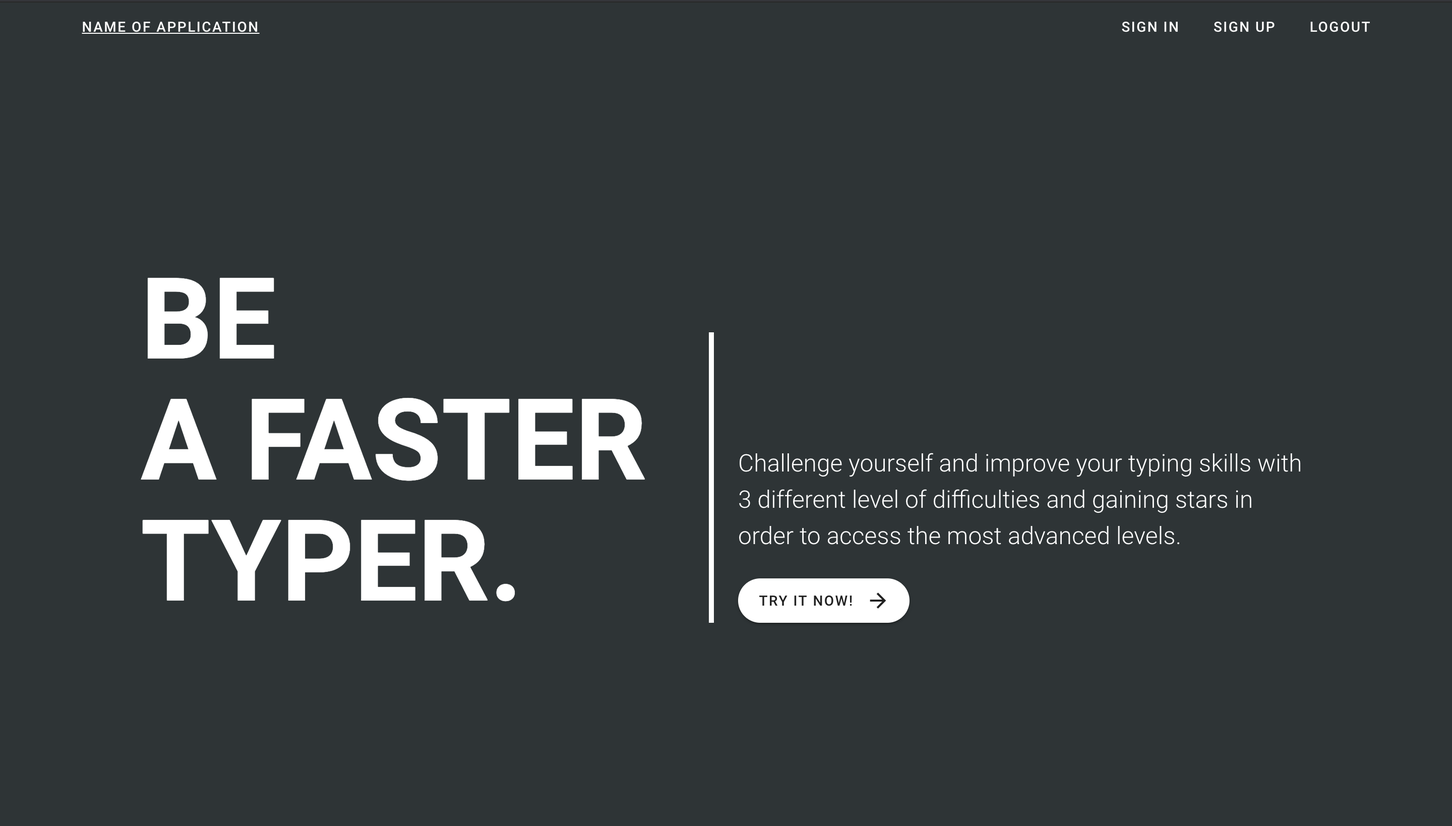
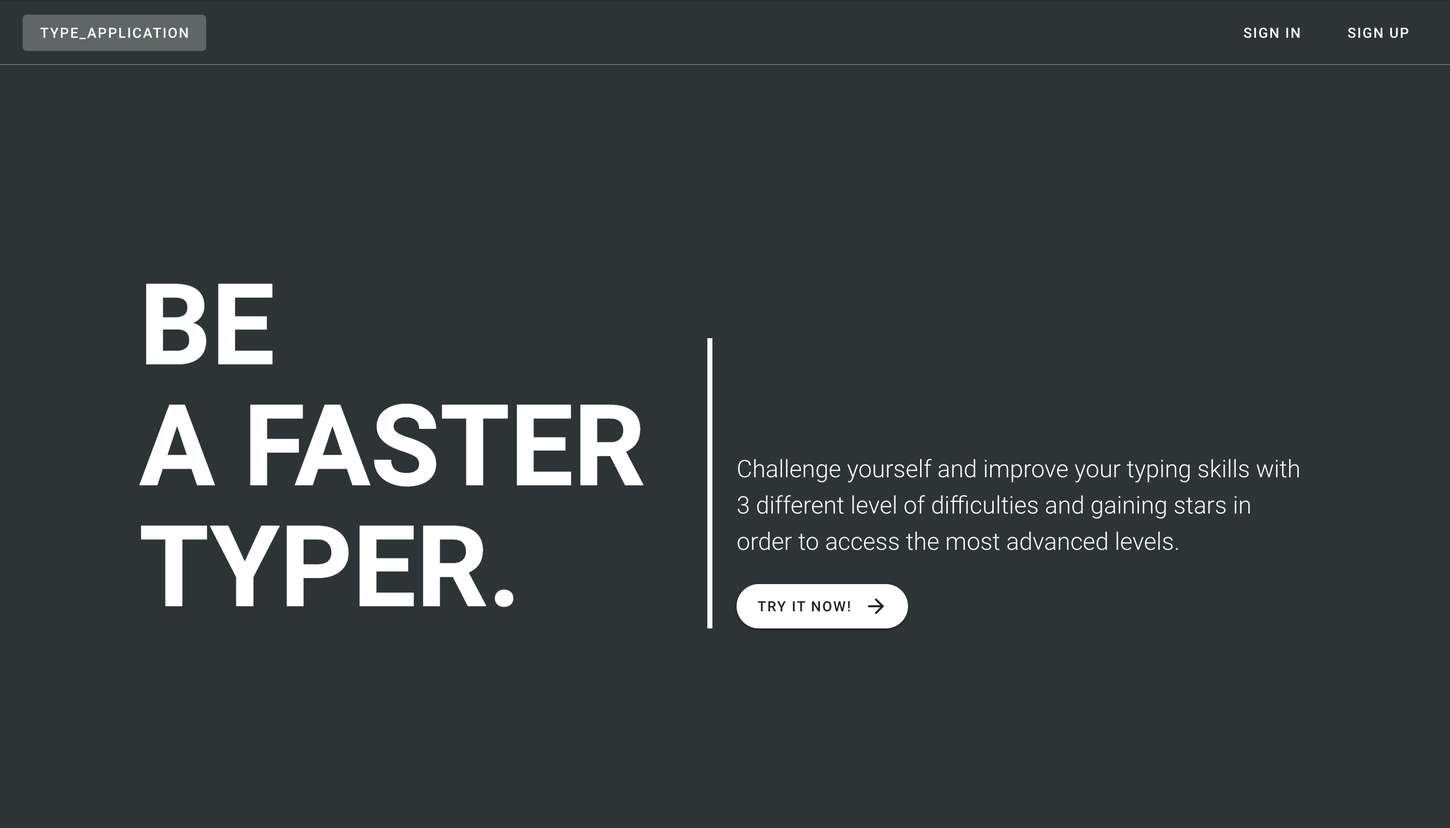
Added PDF file + general style changes

diff --git a/style/css/main.css b/style/css/main.css
@@ -1,1 +1,1 @@
-@import url("https://fonts.googleapis.com/css2?family=Raleway:wght@900&display=swap");@import url("https://fonts.googleapis.com/css2?family=Raleway&display=swap");@import url("https://fonts.googleapis.com/css2?family=Inconsolata:wght@400&display=swap");@import url("https://fonts.googleapis.com/css2?family=Raleway:wght@900&display=swap");@import url("https://fonts.googleapis.com/css2?family=Raleway&display=swap");@import url("https://fonts.googleapis.com/css2?family=Inconsolata:wght@400&display=swap");*{box-sizing:border-box;margin:0;padding:0}html{scroll-behavior:smooth}body{position:relative;font-family:"Raleway",sans-serif;font-size:1em;user-select:none;overflow-x:hidden}img{max-width:100%;height:auto;display:block}ul{list-style:none}a{text-decoration:none;color:black}section{min-height:100vh;display:flex;justify-content:center;align-items:center;flex-direction:""}.menu__hide{top:-80px}.menu__show{top:0}.ContactButtonStyle,.about__container .about__textContainer .contacts .buttonContact,#contactSection .contact__container .contact__links .contact__buttons .contact__button__email{display:inline-block;padding:20px;cursor:pointer;background-color:black;text-transform:uppercase;letter-spacing:2px;font-size:0.8em;position:relative;border-radius:3px;transition:all 0.3s cubic-bezier(0.645, 0.045, 0.355, 1);border:2px solid transparent}.ContactButtonStyle:hover,.about__container .about__textContainer .contacts .buttonContact:hover,#contactSection .contact__container .contact__links .contact__buttons .contact__button__email:hover{background-color:white;border:2px solid black}.ContactButtonStyle:hover a,.about__container .about__textContainer .contacts .buttonContact:hover a,#contactSection .contact__container .contact__links .contact__buttons .contact__button__email:hover a{color:black}.ContactButtonStyle a,.about__container .about__textContainer .contacts .buttonContact a,#contactSection .contact__container .contact__links .contact__buttons .contact__button__email a{color:#ffffff}.ContactButtonStyle a i,.about__container .about__textContainer .contacts .buttonContact a i,#contactSection .contact__container .contact__links .contact__buttons .contact__button__email a i{margin-right:5px}.socialContactsClass ul,.about__container .about__textContainer .contacts .socialContact ul,#contactSection .contact__container .contact__links .contact__socials ul{display:flex}.socialContactsClass ul li,.about__container .about__textContainer .contacts .socialContact ul li,#contactSection .contact__container .contact__links .contact__socials ul li{padding:12px}.socialContactsClass ul li i,.about__container .about__textContainer .contacts .socialContact ul li i,#contactSection .contact__container .contact__links .contact__socials ul li i{cursor:pointer;transition:all 0.5s cubic-bezier(0.165, 0.84, 0.44, 1);font-size:1.2em}.socialContactsClass ul li i:hover,.about__container .about__textContainer .contacts .socialContact ul li i:hover,#contactSection .contact__container .contact__links .contact__socials ul li i:hover{transform:scale(1.4)}nav{background-color:white;position:fixed;left:0;width:100%;height:75px;z-index:1000;padding:0 2rem 0 2rem;font-family:"Inconsolata",monospace;font-size:1.2em;--font-semi: 600;transition:all 0.4s cubic-bezier(0.455, 0.03, 0.515, 0.955);box-shadow:0 4px 2px -2px gray;display:flex;justify-content:space-between;align-items:center;flex-direction:"";-webkit-tap-highlight-color:transparent}nav .menu__logo{max-width:60px;cursor:pointer;z-index:9999;transition:all 10s}nav .menu__links .menu__links__laptop ul{display:flex;justify-content:"";align-items:center;flex-direction:""}nav .menu__links .menu__links__laptop ul li{position:relative;margin:0 0 0 3rem;letter-spacing:1px}nav .menu__links .menu__links__laptop ul li::before{content:'';position:absolute;bottom:-40%;left:0;height:1px;width:0;background-color:black;transition:all 0.2s cubic-bezier(0.455, 0.03, 0.515, 0.955)}nav .menu__links .menu__links__laptop ul li:hover:not(:last-child){font-weight:900}nav .menu__links .menu__links__laptop ul li:hover:not(:last-child)::before{width:100%}nav .menu__links .menu__links__laptop ul li:last-child{line-height:normal;border-radius:5px;border:1px solid black;padding:10px}nav .menu__links .menu__links__mobile{position:relative;cursor:pointer;transition:all 0.5s cubic-bezier(0.455, 0.03, 0.515, 0.955);z-index:9999;height:50px;width:50px;display:flex;justify-content:center;align-items:center;flex-direction:""}nav .menu__links .menu__links__mobile .menu__button__hamburger{width:calc(100% - 30px);height:2px;background-color:black;border-radius:5px;transition:all .3s ease-in-out;position:relative}nav .menu__links .menu__links__mobile .menu__button__hamburger::before{content:'';position:absolute;height:2px;width:calc(100% + 10px);background-color:inherit;transform:translateY(-10px);transition:all 0.3s cubic-bezier(0.455, 0.03, 0.515, 0.955)}nav .menu__links .menu__links__mobile .menu__button__hamburger::after{content:'';position:absolute;height:2px;width:calc(100% + 10px);background-color:inherit;transform:translateY(10px);transition:all 0.3s cubic-bezier(0.455, 0.03, 0.515, 0.955)}nav .menu__links .menu__links__mobile.openMobile .menu__button__hamburger{background:transparent}nav .menu__links .menu__links__mobile.openMobile .menu__button__hamburger::before{background-color:white;transform:rotate(45deg)}nav .menu__links .menu__links__mobile.openMobile .menu__button__hamburger::after{background-color:white;transform:rotate(-45deg)}nav .menu__mobile__fullPage{position:fixed;top:-100%;left:0;background-color:black;display:flex;justify-content:center;align-items:center;flex-direction:"";text-align:center;height:100%;width:100%;transition:all 0.5s cubic-bezier(0.645, 0.045, 0.355, 1)}nav .menu__mobile__fullPage ul li{line-height:80px;font-size:1.1em}nav .menu__mobile__fullPage ul li a{color:white;letter-spacing:1px}nav .menu__mobile__fullPage ul .button__resume{line-height:normal;border-radius:5px;padding:15px;margin-top:5rem;border:1px solid white;position:relative;display:flex;justify-content:center;align-items:flex-start;flex-direction:""}nav .menu__mobile__fullPage ul .button__resume::before{content:'';position:absolute;top:-4rem;height:1px;width:40%;background-color:white}nav .menu__mobile__fullPage.openMobile{top:0}.lateralTextStyle,.about__container .side__vertical__text,.projects__container .project .side__vertical__text{position:relative;left:-2%;writing-mode:vertical-rl;transform:rotate(-180deg);font-size:0.7em;text-transform:uppercase;font-weight:lighter;letter-spacing:10px;height:310px;display:flex;justify-content:flex-start;align-items:center}.lateralTextStyle::before,.about__container .side__vertical__text::before,.projects__container .project .side__vertical__text::before{content:'';position:absolute;bottom:0;height:47%;width:1px;background-color:black}footer{text-align:center;background-color:black;color:white;position:absolute;bottom:0;left:0;width:100%;height:80px;display:flex;align-items:center;justify-content:center}footer .footer__text{line-height:30px;font-family:"Inconsolata",monospace}.intro__page{position:fixed;top:0;left:0;height:100%;width:100%;background-color:black;color:white;z-index:9999;display:flex;justify-content:center;align-items:center;flex-direction:column;transform-origin:top}.intro__page img{max-width:130px;opacity:0}.intro__page h3{opacity:0;font-family:"Inconsolata",monospace;margin-top:1rem;letter-spacing:5px;text-transform:uppercase;font-size:1em;position:relative;display:flex;justify-content:center;align-items:"";flex-direction:""}.about__container{margin-top:5%;max-width:1000px;display:flex;justify-content:center;align-items:center;flex-direction:row;padding:0 3rem 0 3rem;margin-left:auto;margin-right:auto}.about__container .about__textContainer{z-index:100;font-size:1.2em;padding-left:2rem;padding-right:2rem}.about__container .about__textContainer .description{margin-bottom:3rem}.about__container .about__textContainer .description h3{font-family:"Inconsolata",monospace;font-weight:normal;letter-spacing:1px;margin-bottom:15px}.about__container .about__textContainer .description h1{text-transform:uppercase;font-size:2em;letter-spacing:1px;margin-bottom:-2%;margin-bottom:10px}.about__container .about__textContainer .description p{line-height:30px}.about__container .about__textContainer .contacts .socialContact{margin-top:1.5rem}.about__container .about__imgContainer{max-width:380px;position:relative}.about__container .about__imgContainer::before{content:'';position:absolute;right:-10%;bottom:10%;background-color:#f1f2f6cc;width:150%;height:80%;z-index:-1}.about__container .about__imgContainer img{border:10px solid white;filter:grayscale(10%)}.projects__container{margin-top:10%;max-width:1000px;display:flex;justify-content:center;align-items:center;flex-direction:column;padding:0 3rem 0 3rem;margin-left:auto;margin-right:auto;overflow:hidden}.projects__container .projects__intro{width:100%;margin-bottom:9rem;font-family:"Inconsolata",monospace;position:relative;display:flex;justify-content:"";align-items:center;flex-direction:""}.projects__container .projects__intro::before{content:'';position:absolute;right:0;height:1px;width:600px;background-color:black}.projects__container .project{display:flex;justify-content:flex-end;align-items:center;flex-direction:"";position:relative;margin:0 2rem 13rem 2rem;width:100%}.projects__container .project::before{content:'';height:120%;width:65%;position:absolute;border:1px solid #bebec2;color:#f1f2f6cc;z-index:-1;margin-right:-1rem}.projects__container .project .project__image{max-width:500px;filter:drop-shadow(4px 4px 4px #222)}.projects__container .project .project__image img{filter:grayscale(100%);transition:all .2s ease-in-out;cursor:pointer}.projects__container .project .project__image img:hover{filter:none}.projects__container .project .project__text{text-align:end;margin:0 15px 0px 40px;min-width:300px}.projects__container .project .project__text .project__title h4{font-family:"Inconsolata",monospace;margin-bottom:5px;letter-spacing:2px}.projects__container .project .project__text .project__title h1{margin-bottom:1rem}.projects__container .project .project__text .project__description{line-height:25px}.projects__container .project .project__text .project__technologies{position:relative;margin-top:2rem}.projects__container .project .project__text .project__technologies ul{float:right;padding-bottom:1rem;font-family:"Inconsolata",monospace}.projects__container .project .project__text .project__technologies ul li{padding-left:20px;float:right}.projects__container .project .project__text .project__links{margin-right:5px}.projects__container .project .project__text .project__links a{font-size:1.1em;padding:0 0 0 20px}#contactSection{overflow:hidden}#contactSection .contact__container{margin-top:0;max-width:1000px;display:flex;justify-content:center;align-items:center;flex-direction:column;padding:0 3rem 0 3rem;margin-left:auto;margin-right:auto;text-align:center;font-size:1.2em;position:relative}#contactSection .contact__container::before{content:'con- \A -tact \A me';white-space:pre;position:absolute;font-size:15em;font-weight:900;text-transform:uppercase;line-height:190px;color:#f1f2f6cc;z-index:-1;letter-spacing:-15px}#contactSection .contact__container .contact__text{margin-bottom:2rem}#contactSection .contact__container .contact__text h1{font-size:2.2em;font-weight:bold;font-family:"Inconsolata",monospace}#contactSection .contact__container .contact__text p{line-height:30px;margin-top:1.2rem}#contactSection .contact__container .contact__links .contact__buttons{display:flex;justify-content:"";align-items:"";flex-direction:""}#contactSection .contact__container .contact__links .contact__socials{margin-top:1.5rem;display:flex;justify-content:center;align-items:"";flex-direction:"";display:none}@media screen and (max-width: 768px){#aboutSection .about__container{margin-top:100px;max-width:450px;display:flex;justify-content:"";align-items:"";flex-direction:column-reverse;padding:0 2rem 5rem 2rem;margin-left:auto;margin-right:auto}#aboutSection .about__container .side__vertical__text{display:none}#aboutSection .about__container .about__textContainer{padding:1rem 0 0 .7rem;font-size:1em}#aboutSection .about__container .about__textContainer .contacts .socialContact{display:none}#projectSection .projects__container{margin-top:100px;max-width:450px;display:flex;justify-content:"";align-items:"";flex-direction:column;padding:0 2rem 5rem 2rem;margin-left:auto;margin-right:auto}#projectSection .projects__container .projects__intro{margin-bottom:5rem}#projectSection .projects__container .projects__intro:before{content:none}#projectSection .projects__container .project{flex-direction:column;margin:0 2rem 8rem 2rem}#projectSection .projects__container .project::before{display:none}#projectSection .projects__container .project .side__vertical__text{writing-mode:initial;transform:rotate(0deg);height:auto;display:flex;justify-content:flex-end;align-items:center;width:inherit;margin-bottom:3rem}#projectSection .projects__container .project .side__vertical__text::before{content:'';position:absolute;top:50%;left:0;transform:translate(5%, -50%);height:1px;width:calc(100% - 190px);background-color:black}#projectSection .projects__container .project .project__text{margin:0;margin-top:2rem}#contactSection{margin-top:-13rem}#contactSection .contact__container{font-size:1em;margin-top:100px;max-width:450px;display:flex;justify-content:"";align-items:"";flex-direction:"";padding:0 2rem 5rem 2rem;margin-left:auto;margin-right:auto}#contactSection .contact__container .contact__text h1{font-size:1.9em}}@media screen and (max-width: 450px){.about__container{margin-top:0;max-width:320px;display:flex;justify-content:"";align-items:"";flex-direction:"";padding:0 0 0 0;margin-left:auto;margin-right:auto}.projects__container{margin-top:0;max-width:320px;display:flex;justify-content:"";align-items:"";flex-direction:"";padding:0 0 0 0;margin-left:auto;margin-right:auto}.projects__container .project .project__text{min-width:0}.projects__container .project .project__text .project__technologies ul{flex-direction:column}.projects__container .project .project__text .project__technologies ul li{line-height:25px}#contactSection .contact__container::before{content:none}#contactSection .contact__container .contact__links .contact__socials{display:flex}}
+@import url("https://fonts.googleapis.com/css2?family=Raleway:wght@900&display=swap");@import url("https://fonts.googleapis.com/css2?family=Raleway&display=swap");@import url("https://fonts.googleapis.com/css2?family=Inconsolata:wght@400&display=swap");*{box-sizing:border-box;margin:0;padding:0}html{scroll-behavior:smooth}body{position:relative;font-family:"Raleway",sans-serif;font-size:1em;user-select:none;overflow-x:hidden}img{max-width:100%;height:auto;display:block}ul{list-style:none}a{text-decoration:none;color:black}section{min-height:100vh;display:flex;justify-content:center;align-items:center;flex-direction:""}.menu__hide{top:-80px}.menu__show{top:0}nav{background-color:white;position:fixed;left:0;width:100%;height:75px;z-index:1000;padding:0 2rem 0 2rem;font-family:"Inconsolata",monospace;font-size:1.2em;--font-semi: 600;transition:all 0.4s cubic-bezier(0.455, 0.03, 0.515, 0.955);box-shadow:0 4px 2px -2px gray;display:flex;justify-content:space-between;align-items:center;flex-direction:"";-webkit-tap-highlight-color:transparent}nav .menu__logo{max-width:60px;cursor:pointer;z-index:9999;transition:all 10s}nav .menu__links .menu__links__laptop ul{display:flex;justify-content:"";align-items:center;flex-direction:""}nav .menu__links .menu__links__laptop ul li{position:relative;margin:0 0 0 3rem;letter-spacing:1px}nav .menu__links .menu__links__laptop ul li::before{content:'';position:absolute;bottom:-40%;left:0;height:1px;width:0;background-color:black;transition:all 0.2s cubic-bezier(0.455, 0.03, 0.515, 0.955)}nav .menu__links .menu__links__laptop ul li:hover:not(:last-child){font-weight:900}nav .menu__links .menu__links__laptop ul li:hover:not(:last-child)::before{width:100%}nav .menu__links .menu__links__laptop ul li:last-child{line-height:normal;border-radius:5px;border:1px solid black;padding:10px}nav .menu__links .menu__links__mobile{position:relative;cursor:pointer;transition:all 0.5s cubic-bezier(0.455, 0.03, 0.515, 0.955);z-index:9999;height:50px;width:50px;display:flex;justify-content:center;align-items:center;flex-direction:""}nav .menu__links .menu__links__mobile .menu__button__hamburger{width:calc(100% - 30px);height:2px;background-color:black;border-radius:5px;transition:all .3s ease-in-out;position:relative}nav .menu__links .menu__links__mobile .menu__button__hamburger::before{content:'';position:absolute;height:2px;width:calc(100% + 10px);background-color:inherit;transform:translateY(-10px);transition:all 0.3s cubic-bezier(0.455, 0.03, 0.515, 0.955)}nav .menu__links .menu__links__mobile .menu__button__hamburger::after{content:'';position:absolute;height:2px;width:calc(100% + 10px);background-color:inherit;transform:translateY(10px);transition:all 0.3s cubic-bezier(0.455, 0.03, 0.515, 0.955)}nav .menu__links .menu__links__mobile.openMobile .menu__button__hamburger{background:transparent}nav .menu__links .menu__links__mobile.openMobile .menu__button__hamburger::before{background-color:white;transform:rotate(45deg)}nav .menu__links .menu__links__mobile.openMobile .menu__button__hamburger::after{background-color:white;transform:rotate(-45deg)}nav .menu__mobile__fullPage{position:fixed;top:-100%;left:0;background-color:black;display:flex;justify-content:center;align-items:center;flex-direction:"";text-align:center;height:100%;width:100%;transition:all 0.5s cubic-bezier(0.645, 0.045, 0.355, 1)}nav .menu__mobile__fullPage ul li{line-height:80px;font-size:1.1em}nav .menu__mobile__fullPage ul li a{color:white;letter-spacing:1px}nav .menu__mobile__fullPage ul .button__resume{line-height:normal;border-radius:5px;padding:15px;margin-top:5rem;border:1px solid white;position:relative;display:flex;justify-content:center;align-items:flex-start;flex-direction:""}nav .menu__mobile__fullPage ul .button__resume::before{content:'';position:absolute;top:-4rem;height:1px;width:40%;background-color:white}nav .menu__mobile__fullPage.openMobile{top:0}.lateralTextStyle,.about__container .side__vertical__text,.projects__container .project .side__vertical__text{position:relative;left:-2%;writing-mode:vertical-rl;transform:rotate(-180deg);font-size:0.7em;text-transform:uppercase;font-weight:lighter;letter-spacing:10px;height:310px;display:flex;justify-content:flex-start;align-items:center}.lateralTextStyle::before,.about__container .side__vertical__text::before,.projects__container .project .side__vertical__text::before{content:'';position:absolute;bottom:0;height:47%;width:1px;background-color:black}footer{text-align:center;background-color:black;border-top:1px solid grey;color:white;position:absolute;bottom:0;left:0;width:100%;height:80px;display:flex;align-items:center;justify-content:center}footer .footer__text{line-height:30px;font-family:"Inconsolata",monospace}.intro__page{position:fixed;top:0;left:0;height:100%;width:100%;background-color:black;color:white;z-index:9999;display:flex;justify-content:center;align-items:center;flex-direction:column;transform-origin:top}.intro__page img{max-width:130px;opacity:0}.intro__page h3{opacity:0;font-family:"Inconsolata",monospace;margin-top:1rem;letter-spacing:5px;text-transform:uppercase;font-size:1em;position:relative;display:flex;justify-content:center;align-items:"";flex-direction:""}.about__container{margin-top:5%;max-width:1000px;display:flex;justify-content:center;align-items:center;flex-direction:row;padding:0 3rem 0 3rem;margin-left:auto;margin-right:auto}.about__container .about__textContainer{z-index:100;font-size:1.2em;padding-left:2rem;padding-right:2rem}.about__container .about__textContainer .description{margin-bottom:3rem}.about__container .about__textContainer .description h3{font-family:"Inconsolata",monospace;font-weight:normal;letter-spacing:1px;margin-bottom:15px}.about__container .about__textContainer .description h1{text-transform:uppercase;font-size:2em;letter-spacing:1px;margin-bottom:-2%;margin-bottom:10px}.about__container .about__textContainer .description p{line-height:30px}.about__container .about__textContainer .contacts .buttonContact{display:inline-block;padding:20px;cursor:pointer;background-color:black;border:1px solid white;text-transform:uppercase;letter-spacing:2px;font-size:0.8em;position:relative;border-radius:3px;transition:all 0.3s cubic-bezier(0.645, 0.045, 0.355, 1)}.about__container .about__textContainer .contacts .buttonContact a{color:white}.about__container .about__textContainer .contacts .buttonContact a i{margin-right:5px}.about__container .about__textContainer .contacts .buttonContact:hover{background-color:white;border:1px solid black}.about__container .about__textContainer .contacts .buttonContact:hover a{color:black}.about__container .about__textContainer .contacts .socialContact{margin-top:1.5rem}.about__container .about__textContainer .contacts .socialContact ul{display:flex;margin-bottom:3rem}.about__container .about__textContainer .contacts .socialContact ul li{padding:12px}.about__container .about__textContainer .contacts .socialContact ul li i{color:#000;cursor:pointer;transition:all 0.5s cubic-bezier(0.165, 0.84, 0.44, 1);font-size:1.1em}.about__container .about__textContainer .contacts .socialContact ul li i:hover{transform:scale(1.4)}.about__container .about__imgContainer{max-width:380px;position:relative}.about__container .about__imgContainer::before{content:'';position:absolute;right:-10%;bottom:10%;background-color:#f1f2f6cc;width:150%;height:80%;z-index:-1}.about__container .about__imgContainer img{border:10px solid white;filter:grayscale(10%)}.projects__container{margin-top:10%;max-width:1000px;display:flex;justify-content:center;align-items:center;flex-direction:column;padding:0 3rem 0 3rem;margin-left:auto;margin-right:auto;overflow:hidden}.projects__container .projects__intro{width:100%;margin-bottom:9rem;font-family:"Inconsolata",monospace;position:relative;display:flex;justify-content:"";align-items:center;flex-direction:""}.projects__container .projects__intro::before{content:'';position:absolute;right:0;height:1px;width:600px;background-color:black}.projects__container .project{display:flex;justify-content:flex-end;align-items:center;flex-direction:"";position:relative;margin:0 2rem 13rem 2rem;width:100%}.projects__container .project::before{content:'';height:120%;width:65%;position:absolute;border:1px solid #bebec2;color:#f1f2f6cc;z-index:-1;margin-right:-1rem}.projects__container .project .project__image{max-width:500px;filter:drop-shadow(4px 4px 4px #222)}.projects__container .project .project__image img{filter:grayscale(100%);transition:all .2s ease-in-out;cursor:pointer}.projects__container .project .project__image img:hover{filter:none}.projects__container .project .project__text{text-align:end;margin:0 15px 0px 40px;min-width:300px}.projects__container .project .project__text .project__title h4{font-family:"Inconsolata",monospace;margin-bottom:5px;letter-spacing:2px}.projects__container .project .project__text .project__title h1{margin-bottom:1rem}.projects__container .project .project__text .project__description{line-height:25px}.projects__container .project .project__text .project__technologies{position:relative;margin-top:2rem}.projects__container .project .project__text .project__technologies ul{float:right;padding-bottom:1rem;font-family:"Inconsolata",monospace}.projects__container .project .project__text .project__technologies ul li{padding-left:20px;float:right}.projects__container .project .project__text .project__links{margin-right:5px}.projects__container .project .project__text .project__links a{font-size:1.1em;padding:0 0 0 20px}#contactSection{overflow:hidden;position:relative;background-color:black;color:#ffff}#contactSection::before{content:'';position:absolute;background-color:white;border:2px solid transparent;backface-visibility:hidden;width:50%;height:220px;top:-110px;left:-1px;transform:skewY(17deg)}#contactSection::after{content:'';position:absolute;background-color:white;border:2px solid transparent;backface-visibility:hidden;width:50%;height:220px;top:-110px;right:-5px;transform:skewY(-17deg)}#contactSection .contact__container{margin-top:3rem;max-width:1000px;display:flex;justify-content:center;align-items:center;flex-direction:column;padding:0 3rem 0 3rem;margin-left:auto;margin-right:auto;text-align:center;font-size:1.2em;position:relative}#contactSection .contact__container::before{content:'con- \A -tact \A me';white-space:pre;position:absolute;font-size:15em;font-weight:900;text-transform:uppercase;line-height:190px;color:#f1f2f6cc;z-index:-1;letter-spacing:-15px}#contactSection .contact__container .contact__text{margin-bottom:2rem;padding-top:5rem}#contactSection .contact__container .contact__text h1{font-size:2.2em;font-weight:bold;font-family:"Inconsolata",monospace}#contactSection .contact__container .contact__text p{line-height:30px;margin-top:1.2rem}#contactSection .contact__container .contact__links .contact__buttons{display:flex;justify-content:"";align-items:"";flex-direction:""}#contactSection .contact__container .contact__links .contact__buttons .contact__button__email{display:inline-block;padding:20px;cursor:pointer;background-color:black;border:1px solid white;text-transform:uppercase;letter-spacing:2px;font-size:0.8em;position:relative;border-radius:3px;transition:all 0.3s cubic-bezier(0.645, 0.045, 0.355, 1)}#contactSection .contact__container .contact__links .contact__buttons .contact__button__email a{color:white}#contactSection .contact__container .contact__links .contact__buttons .contact__button__email a i{margin-right:5px}#contactSection .contact__container .contact__links .contact__buttons .contact__button__email:hover{background-color:white;border:1px solid white}#contactSection .contact__container .contact__links .contact__buttons .contact__button__email:hover a{color:black}#contactSection .contact__container .contact__links .contact__socials{margin-top:1.5rem;display:flex;justify-content:center;align-items:"";flex-direction:"";display:none}#contactSection .contact__container .contact__links .contact__socials ul{display:flex;margin-bottom:3rem}#contactSection .contact__container .contact__links .contact__socials ul li{padding:12px}#contactSection .contact__container .contact__links .contact__socials ul li i{color:#fff;cursor:pointer;transition:all 0.5s cubic-bezier(0.165, 0.84, 0.44, 1);font-size:1.1em}#contactSection .contact__container .contact__links .contact__socials ul li i:hover{transform:scale(1.4)}@media screen and (max-width: 768px){#aboutSection .about__container{margin-top:100px;max-width:450px;display:flex;justify-content:"";align-items:"";flex-direction:column-reverse;padding:0 2rem 5rem 2rem;margin-left:auto;margin-right:auto}#aboutSection .about__container .side__vertical__text{display:none}#aboutSection .about__container .about__textContainer{padding:1rem 0 0 .7rem;font-size:1em}#aboutSection .about__container .about__textContainer .contacts .socialContact{display:none}#projectSection .projects__container{margin-top:100px;max-width:450px;display:flex;justify-content:"";align-items:"";flex-direction:column;padding:0 2rem 5rem 2rem;margin-left:auto;margin-right:auto}#projectSection .projects__container .projects__intro{margin-bottom:5rem}#projectSection .projects__container .projects__intro:before{content:none}#projectSection .projects__container .project{flex-direction:column;margin:0 2rem 8rem 2rem}#projectSection .projects__container .project::before{display:none}#projectSection .projects__container .project .side__vertical__text{writing-mode:initial;transform:rotate(0deg);height:auto;display:flex;justify-content:flex-end;align-items:center;width:inherit;margin-bottom:3rem}#projectSection .projects__container .project .side__vertical__text::before{content:'';position:absolute;top:50%;left:0;transform:translate(5%, -50%);height:1px;width:calc(100% - 190px);background-color:black}#projectSection .projects__container .project .project__text{margin:0;margin-top:2rem}#contactSection{margin-top:-13rem}#contactSection .contact__container{font-size:1em;margin-top:100px;max-width:450px;display:flex;justify-content:"";align-items:"";flex-direction:"";padding:0 2rem 5rem 2rem;margin-left:auto;margin-right:auto}#contactSection .contact__container .contact__text h1{font-size:1.9em}}@media screen and (max-width: 450px){.about__container{margin-top:0;max-width:320px;display:flex;justify-content:"";align-items:"";flex-direction:"";padding:0 0 0 0;margin-left:auto;margin-right:auto}.projects__container{margin-top:0;max-width:320px;display:flex;justify-content:"";align-items:"";flex-direction:"";padding:0 0 0 0;margin-left:auto;margin-right:auto}.projects__container .project .project__text{min-width:0}.projects__container .project .project__text .project__technologies ul{flex-direction:column}.projects__container .project .project__text .project__technologies ul li{line-height:25px}#contactSection .contact__container::before{content:none}#contactSection .contact__container .contact__links .contact__socials{display:flex}}

diff --git a/style/scss/abstracts/_functions.scss b/style/scss/abstracts/_functions.scss
@@ -51,3 +51,72 @@
         }
     }
 };
+
+@mixin socialIconsStyle($colorIcon) {
+    ul {
+        display: flex;
+        margin-bottom: 3rem;
+        li {
+            padding: 12px;
+            i {
+                color: $colorIcon;
+                cursor: pointer;
+                transition: all 0.5s cubic-bezier(0.165, 0.84, 0.44, 1);
+                font-size: 1.1em;
+                &:hover {
+                    transform: scale(1.4);
+                }
+            }
+        }
+    }
+}
+
+@mixin buttonContactStyle($sectionName) {
+    display: inline-block;
+    padding: 20px;
+    cursor: pointer;
+    background-color:black;
+    border: 1px solid white;
+    text-transform: uppercase;
+    letter-spacing: 2px;
+    font-size: 0.8em;
+    position: relative;
+    border-radius: 3px;
+    transition: all .3s cubic-bezier(0.645, 0.045, 0.355, 1);
+    a {
+        color: white;
+        i {
+            margin-right: 5px;
+        }
+    }
+    &:hover {
+        background-color: white;
+        @if $sectionName == 'about' {
+            border: 1px solid black;
+        } @else {
+            border: 1px solid white;
+        }
+        a {
+            color: black;
+        }
+    }
+}
+
+@mixin triangles($side) {
+    content: '';
+    position: absolute;
+    background-color: white;
+    border: 2px solid transparent;
+    backface-visibility: hidden;
+    width: 50%;
+    height: 220px;
+    /* height: 150px; */
+    top: -110px;
+    @if $side == 'left' {
+        left: -1px;
+        transform: skewY(17deg);
+    } @else {
+        right: -5px;
+        transform: skewY(-17deg);
+    }
+}

diff --git a/style/scss/pages/_contact.scss b/style/scss/pages/_contact.scss
@@ -1,9 +1,16 @@
-
-
 #contactSection {
     overflow: hidden;
+    position: relative;
+    background-color: black;
+    color: #ffff;
+    &::before {
+        @include triangles('left');
+    }
+    &::after {
+        @include triangles('right');
+    }
     .contact__container {
-        @include settingSectionStyle(1000px, column, 0, 0, 3rem, 0, 3rem);
+        @include settingSectionStyle(1000px, column, 3rem, 0, 3rem, 0, 3rem);
         text-align: center;
         font-size: 1.2em;
         position: relative;
@@ -21,6 +28,7 @@
         }
         .contact__text {
             margin-bottom: 2rem;
+            padding-top: 5rem;
             h1 {
                 font-size: 2.2em;
                 font-weight: bold;
@@ -35,14 +43,14 @@
             .contact__buttons {
                 @include flexbox('', '', '');
                 .contact__button__email {
-                    @extend .ContactButtonStyle;
+                    @include buttonContactStyle('contact');
                 }
             }
             .contact__socials {
                 margin-top: 1.5rem;
                 @include flexbox(center, '', '');
                 display: none;
-                @extend .socialContactsClass;
+                @include socialIconsStyle(white);
             }
         }
     }

diff --git a/index.html b/index.html
@@ -37,7 +37,7 @@
                     <li><a href="#aboutSection">About</a></li>
                     <li><a href="#projectSection">Projects</a></li>
                     <li><a href="#contactSection">Contact</a></li>
-                    <li class="button__resume"><a href="#" target="_blank">Resume</a></li>
+                    <li class="button__resume"><a href="./documents/CV.pdf" target="_blank">Resume</a></li>
                 </ul>
             </div>
 
@@ -52,7 +52,7 @@
                 <li><a href="#aboutSection">About</a></li>
                 <li><a href="#projectSection">Projects</a></li>
                 <li><a href="#contactSection">Contact</a></li>
-                <li class="button__resume"><a href="#" target="_blank">Resume</a></li>
+                <li class="button__resume"><a href="./documents/CV.pdf" target="_blank">Resume</a></li>
             </ul>
         </div>
     </nav>

diff --git a/style/scss/pages/_about.scss b/style/scss/pages/_about.scss
@@ -1,7 +1,3 @@
-
-@import '../abstracts/functions';
-@import '../base/font';
-
 .about__container {
     @include settingSectionStyle(1000px, row, 5%, 0, 3rem, 0, 3rem);
     .side__vertical__text {
@@ -33,11 +29,11 @@
         }
         .contacts {
             .buttonContact {
-                @extend .ContactButtonStyle;
+                @include buttonContactStyle('about');
             }
             .socialContact {
                 margin-top: 1.5rem;
-                @extend .socialContactsClass;
+                @include socialIconsStyle(black);
             }
         }
     }

diff --git a/style/scss/abstracts/_responsive.scss b/style/scss/abstracts/_responsive.scss
@@ -109,3 +109,15 @@
         }
     }
 };
+
+/* @media screen and (min-width: 320px) and (max-width: 767px) and (orientation: landscape) {
+    html {
+      transform: rotate(-90deg);
+      transform-origin: left top;
+      width: 100vh;
+      overflow-x: hidden;
+      position: absolute;
+      top: 100%;
+      left: 0;
+    }
+  } */

diff --git a/style/scss/main.scss b/style/scss/main.scss
@@ -1,8 +1,6 @@
 @import './base/general';
 
 //Components
-@import './components/buttons';
-@import './components/socials';
 @import './components/navbar';
 @import './components/lateralText';
 @import './components/footer';

diff --git a/style/scss/components/_footer.scss b/style/scss/components/_footer.scss
@@ -1,6 +1,7 @@
 footer {
     text-align: center;
     background-color: black;
+    border-top: 1px solid grey;
     color: white;
     position: absolute;
     bottom: 0;
